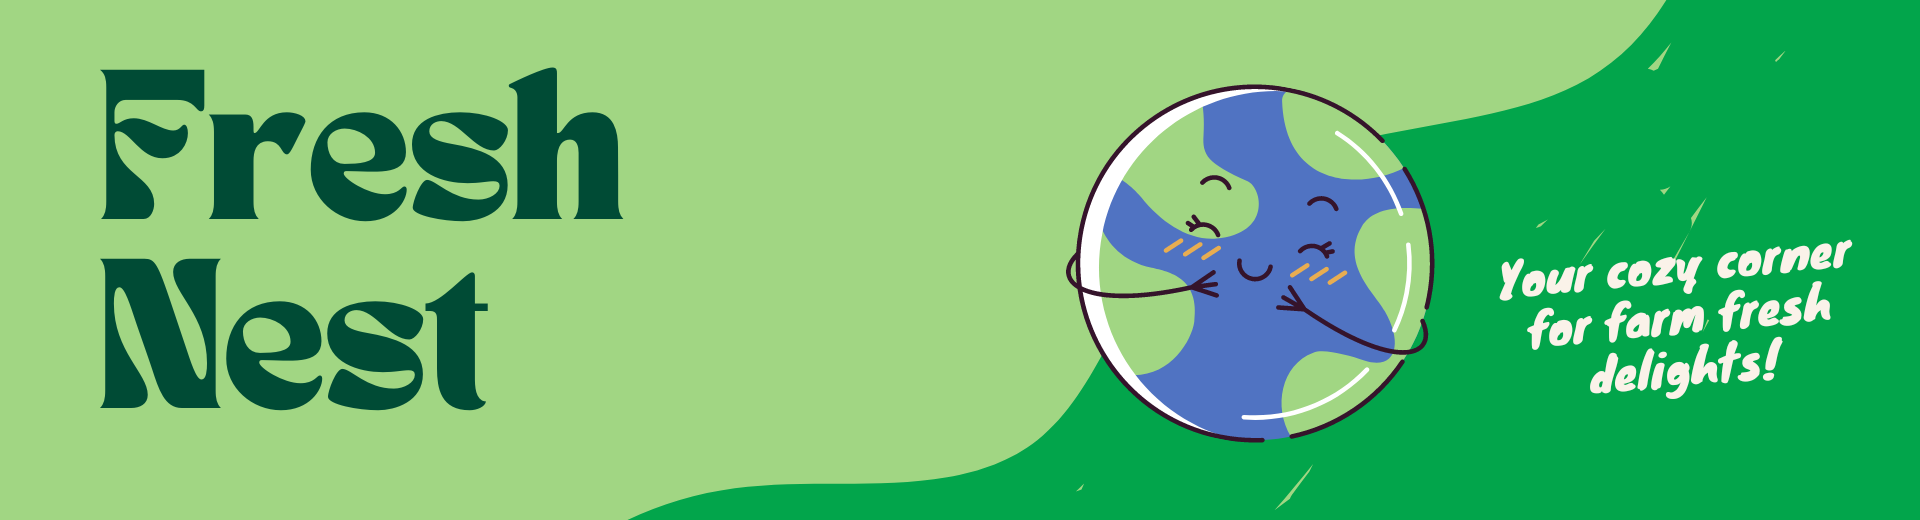
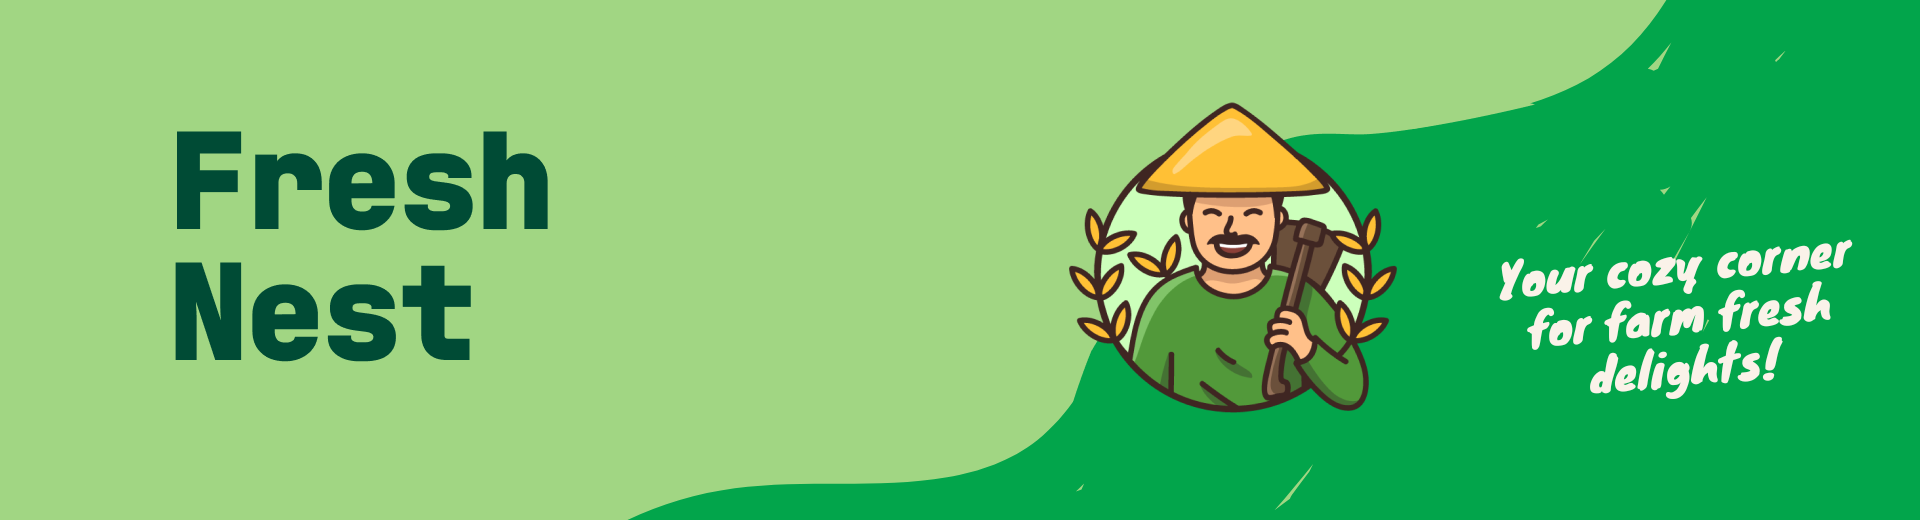
docs: update doc images

Changed region(s): [[0.5312, 0.1538, 0.75, 0.8615], [0.0312, 0.1231, 0.3438, 0.4615], [0.0312, 0.4923, 0.25, 0.8]]

diff --git a/README.md b/README.md
@@ -1,46 +1,48 @@
 <img src="./images/freshnest_banner.png"  />
-<img src="./images/github_banner.png">
+<img src="./images/freshnest_banner_2.png">
+<img src="./images/freshnest_banner_3.png">
 
-# FreshNest
-  
+# [FreshNest](https://fresh-nest.netlify.app)
+[![Netlify Status](https://api.netlify.com/api/v1/badges/2705eab6-d2e3-456b-bb84-a0f98c3e5ee1/deploy-status)](https://app.netlify.com/sites/fresh-nest/deploys)
 [![Website](https://img.shields.io/badge/FreshNest-Website-brightgreen)](https://fresh-nest.netlify.app/)
 [![APK](https://img.shields.io/badge/FreshNest-APK-orange)](https://github.com/AmanNegi/FreshNest/releases/tag/v0.0.3)
 
-
-Welcome to FreshNest, an online marketplace that connects local vegetable sellers and farmers directly with customers who are seeking fresh and nutritious produce. We believe in fostering a direct connection between producers and consumers, empowering local communities, and promoting sustainable farming practices.
+Welcome to FreshNest, an online marketplace that connects local vegetable sellers and farmers directly with customers who are seeking **fresh and nutritious produce**. We believe in fostering a direct connection between producers and consumers, empowering local communities, and promoting sustainable farming practices.
 
 With FreshNest, you can explore a wide range of locally grown vegetables, sourced directly from farmers in your area. By eliminating intermediaries, we ensure that you receive the freshest and highest-quality produce while supporting local farmers and their livelihoods.
 
-## 🥦 Why Choose FreshNest?
+## Why Choose FreshNest? 🤷♂
+
 - **Farm-to-Table Freshness**: At FreshNest, we prioritize freshness above all. Our vegetables are harvested at the peak of ripeness and delivered directly from the farm to your doorstep, guaranteeing maximum flavor and nutrition.
 - **Support Local Farmers**: By purchasing from FreshNest, you contribute to the growth and prosperity of local farmers. Your support helps them sustain their agricultural practices and ensures a vibrant and resilient local food ecosystem.
 - **Wide Variety**: Discover a diverse selection of vegetables from different farms, enabling you to explore new flavors, try unique heirloom varieties, and add excitement to your culinary creations.
 - **Transparency and Traceability**: We believe in transparency and provide detailed information about the farmers, their cultivation methods, and the region where the vegetables are grown. This enables you to make informed choices and connect with the source of your food.
-- **Convenient and Reliable**: FreshNest offers a seamless ordering experience with secure payment options and reliable delivery services. Sit back, relax, and let us bring the goodness of fresh vegetables to your doorstep.
+- **Shop Local with Confidence**: Effortlessly discover farms and vendors in your area. FreshNest uses your location to connect you with nearby producers, ensuring you get the freshest produce with minimal travel time.
+- **See What You're Getting**: Browse captivating images uploaded directly by sellers. Get a clear picture of the farm, the produce itself, and gain confidence in your purchase before adding it to your cart. FreshNest fosters transparency by allowing you to virtually visit the source of your food.
 
 ## 🛠 Tech Stack
 
-| Technology | Tech Stack |
-| --- | --- |
-| Mobile | ![Flutter](https://img.shields.io/badge/Flutter-%2302569B.svg?style=for-the-badge&logo=Flutter&logoColor=white) |
-| Web | ![React](https://img.shields.io/badge/react-%2320232a.svg?style=for-the-badge&logo=react&logoColor=%2361DAFB) |
-| Backend | ![NodeJS](https://img.shields.io/badge/node.js-6DA55F?style=for-the-badge&logo=node.js&logoColor=white) |
-| Database | ![MongoDB](https://img.shields.io/badge/MongoDB-%234ea94b.svg?style=for-the-badge&logo=mongodb&logoColor=white) |
+| Technology | Tech Stack                                                                                                      | Version |
+| ---------- | --------------------------------------------------------------------------------------------------------------- | ------- |
+| Mobile     | ![Flutter](https://img.shields.io/badge/Flutter-%2302569B.svg?style=for-the-badge&logo=Flutter&logoColor=white) | 3.16.9   |
+| Web        | ![React](https://img.shields.io/badge/react-%2320232a.svg?style=for-the-badge&logo=react&logoColor=%2361DAFB)   | 18.2.0  |
+| Backend    | ![NodeJS](https://img.shields.io/badge/node.js-6DA55F?style=for-the-badge&logo=node.js&logoColor=white)         | 20.11.1 |
+| Database   | ![MongoDBAtlas](https://img.shields.io/badge/MongoDB-%234ea94b.svg?style=for-the-badge&logo=mongodb&logoColor=white) | ~mongodbatlas~   |
 
 ## 🤝 Contributing
+
 Check the [`CONTRIBUTING.md`](./docs/CONTRIBUTING.md) for information regarding contributions.
 
 ## 👨💻 Contributors
+
 <a href="https://github.com/AmanNegi/FreshNest/graphs/contributors">
   <img src="https://contrib.rocks/image?repo=AmanNegi/FreshNest" />
 </a>
 
-
 ## 🛡 License
+
 Distributed under the AGPLv3 License. See [`LICENSE.md`](./LICENSE) for more information.
 
 ## 🙏 Support
+
 This project needs a ⭐ from you. Don't forget to leave a star.
-
-
-
